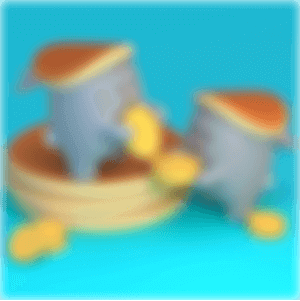
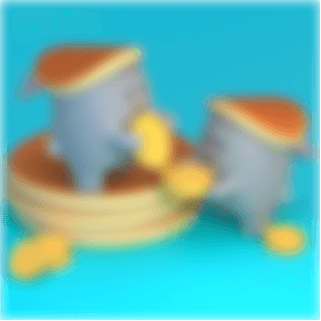
perf: Standardized nft images (#384)

Changed region(s): [[0.99, 0.0, 1.0, 1.0], [0.6, 0.6578, 0.63, 0.6877], [0.0, 0.6279, 0.03, 0.6578]]

diff --git a/src/config/constants/nfts.ts b/src/config/constants/nfts.ts
@@ -4,90 +4,130 @@ const Nfts: Nft[] = [
   {
     name: 'Sleepy',
     description: 'Aww, looks like eating pancakes all day is tough work. Sweet dreams!',
-    originalImage: 'https://gateway.pinata.cloud/ipfs/QmXdHqg3nywpNJWDevJQPtkz93vpfoHcZWQovFz2nmtPf5/sleepy.png',
-    previewImage: 'sleepy-preview.png',
-    blurImage: 'sleepy-blur.png',
+    images: {
+      lg: 'sleepy-lg.png',
+      md: 'sleepy-md.png',
+      sm: 'sleepy-sm.png',
+      ipfs: 'https://gateway.pinata.cloud/ipfs/QmYD9AtzyQPjSa9jfZcZq88gSaRssdhGmKqQifUDjGFfXm/sleepy.png',
+      blur: 'sleepy-blur.png',
+    },
     sortOrder: 999,
     bunnyId: 5,
   },
   {
     name: 'Sunny',
     description: 'Sunny is always cheerful when there are pancakes around. Smile!',
-    originalImage: 'https://gateway.pinata.cloud/ipfs/QmXdHqg3nywpNJWDevJQPtkz93vpfoHcZWQovFz2nmtPf5/sunny.png',
-    previewImage: 'sunny-preview.png',
-    blurImage: 'sunny-blur.png',
+    images: {
+      lg: 'sunny-lg.png',
+      md: 'sunny-md.png',
+      sm: 'sunny-sm.png',
+      ipfs: 'https://gateway.pinata.cloud/ipfs/QmYD9AtzyQPjSa9jfZcZq88gSaRssdhGmKqQifUDjGFfXm/sunny.png',
+      blur: 'sunny-blur.png',
+    },
     sortOrder: 999,
     bunnyId: 6,
   },
   {
     name: 'Churro',
     description: "Don't let that dopey smile deceive you... Churro's a master CAKE chef!",
-    originalImage: 'https://gateway.pinata.cloud/ipfs/QmXdHqg3nywpNJWDevJQPtkz93vpfoHcZWQovFz2nmtPf5/churro.png',
-    previewImage: 'churro-preview.png',
-    blurImage: 'churro-blur.png',
+    images: {
+      lg: 'churro-lg.png',
+      md: 'churro-md.png',
+      sm: 'churro-sm.png',
+      ipfs: 'https://gateway.pinata.cloud/ipfs/QmYD9AtzyQPjSa9jfZcZq88gSaRssdhGmKqQifUDjGFfXm/churro.png',
+      blur: 'churro-blur.png',
+    },
     sortOrder: 999,
     bunnyId: 7,
   },
   {
     name: 'Dollop',
     description: "Nommm... Oh hi, I'm just meditating on the meaning of CAKE.",
-    originalImage: 'https://gateway.pinata.cloud/ipfs/QmXdHqg3nywpNJWDevJQPtkz93vpfoHcZWQovFz2nmtPf5/dollop.png',
-    previewImage: 'dollop-preview.png',
-    blurImage: 'dollop-blur.png',
+    images: {
+      lg: 'dollop-lg.png',
+      md: 'dollop-md.png',
+      sm: 'dollop-sm.png',
+      ipfs: 'https://gateway.pinata.cloud/ipfs/QmYD9AtzyQPjSa9jfZcZq88gSaRssdhGmKqQifUDjGFfXm/dollop.png',
+      blur: 'dollop-blur.png',
+    },
     sortOrder: 999,
     bunnyId: 8,
   },
   {
     name: 'Twinkle',
     description: "Three guesses what's put that twinkle in those eyes! (Hint: it's CAKE)",
-    originalImage: 'https://gateway.pinata.cloud/ipfs/QmXdHqg3nywpNJWDevJQPtkz93vpfoHcZWQovFz2nmtPf5/twinkle.png',
-    previewImage: 'twinkle-preview.png',
-    blurImage: 'twinkle-blur.png',
+    images: {
+      lg: 'twinkle-lg.png',
+      md: 'twinkle-md.png',
+      sm: 'twinkle-sm.png',
+      ipfs: 'https://gateway.pinata.cloud/ipfs/QmYD9AtzyQPjSa9jfZcZq88gSaRssdhGmKqQifUDjGFfXm/twinkle.png',
+      blur: 'twinkle-blur.png',
+    },
     sortOrder: 999,
     bunnyId: 9,
   },
   {
     name: 'Swapsies',
     description: 'These bunnies love nothing more than swapping pancakes. Especially on BSC.',
-    originalImage: 'https://gateway.pinata.cloud/ipfs/QmXdHqg3nywpNJWDevJQPtkz93vpfoHcZWQovFz2nmtPf5/swapsies.png',
-    previewImage: 'swapsies-preview.png',
-    blurImage: 'swapsies-blur.png',
+    images: {
+      lg: 'swapsies-lg.png',
+      md: 'swapsies-md.png',
+      sm: 'swapsies-sm.png',
+      ipfs: 'https://gateway.pinata.cloud/ipfs/QmXdHqg3nywpNJWDevJQPtkz93vpfoHcZWQovFz2nmtPf5/swapsies.png',
+      blur: 'swapsies-blur.png',
+    },
     sortOrder: 999,
     bunnyId: 0,
   },
   {
     name: 'Drizzle',
     description: "It's raining syrup on this bunny, but he doesn't seem to mind. Can you blame him?",
-    originalImage: 'https://gateway.pinata.cloud/ipfs/QmXdHqg3nywpNJWDevJQPtkz93vpfoHcZWQovFz2nmtPf5/drizzle.png',
-    previewImage: 'drizzle-preview.png',
-    blurImage: 'drizzle-blur.png',
+    images: {
+      lg: 'drizzle-lg.png',
+      md: 'drizzle-md.png',
+      sm: 'drizzle-sm.png',
+      ipfs: 'https://gateway.pinata.cloud/ipfs/QmXdHqg3nywpNJWDevJQPtkz93vpfoHcZWQovFz2nmtPf5/drizzle.png',
+      blur: 'drizzle-blur.png',
+    },
     sortOrder: 999,
     bunnyId: 1,
   },
   {
     name: 'Blueberries',
     description: "These bunnies like their pancakes with blueberries. What's your favorite topping?",
-    originalImage: 'https://gateway.pinata.cloud/ipfs/QmXdHqg3nywpNJWDevJQPtkz93vpfoHcZWQovFz2nmtPf5/blueberries.png',
-    previewImage: 'blueberries-preview.png',
-    blurImage: 'blueberries-blur.png',
+    images: {
+      lg: 'blueberries-lg.png',
+      md: 'blueberries-md.png',
+      sm: 'blueberries-sm.png',
+      ipfs: 'https://gateway.pinata.cloud/ipfs/QmXdHqg3nywpNJWDevJQPtkz93vpfoHcZWQovFz2nmtPf5/blueberries.png',
+      blur: 'blueberries-blur.png',
+    },
     sortOrder: 999,
     bunnyId: 2,
   },
   {
     name: 'Circular',
     description: "Love makes the world go 'round... but so do pancakes. And these bunnies know it.",
-    originalImage: 'https://gateway.pinata.cloud/ipfs/QmXdHqg3nywpNJWDevJQPtkz93vpfoHcZWQovFz2nmtPf5/circular.png',
-    previewImage: 'circular-preview.png',
-    blurImage: 'circular-blur.png',
+    images: {
+      lg: 'circular-lg.png',
+      md: 'circular-md.png',
+      sm: 'circular-sm.png',
+      ipfs: 'https://gateway.pinata.cloud/ipfs/QmXdHqg3nywpNJWDevJQPtkz93vpfoHcZWQovFz2nmtPf5/circular.png',
+      blur: 'circular-blur.png',
+    },
     sortOrder: 999,
     bunnyId: 3,
   },
   {
     name: 'Sparkle',
     description: 'It’s sparkling syrup, pancakes, and even lottery tickets! This bunny really loves it.',
-    originalImage: 'https://gateway.pinata.cloud/ipfs/QmXdHqg3nywpNJWDevJQPtkz93vpfoHcZWQovFz2nmtPf5/sparkle.png',
-    previewImage: 'sparkle-preview.png',
-    blurImage: 'sparkle-blur.png',
+    images: {
+      lg: 'sparkle-lg.png',
+      md: 'sparkle-md.png',
+      sm: 'sparkle-sm.png',
+      ipfs: 'https://gateway.pinata.cloud/ipfs/QmXdHqg3nywpNJWDevJQPtkz93vpfoHcZWQovFz2nmtPf5/sparkle.png',
+      blur: 'sparkle-blur.png',
+    },
     sortOrder: 999,
     bunnyId: 4,
   },

diff --git a/src/config/constants/teams.ts b/src/config/constants/teams.ts
@@ -5,9 +5,13 @@ const teams: Team[] = [
     id: 1,
     name: 'Syrup Storm',
     description: "The storm's a-comin! Watch out! These bulls are stampeding in a syrupy surge!",
-    previewImage: 'syrup-storm-preview.png',
-    originalImage: '',
-    avatarImage: 'syrup-storm-avatar.png',
+    images: {
+      lg: 'syrup-storm-lg.png',
+      md: 'syrup-storm-md.png',
+      sm: 'syrup-storm-sm.png',
+      alt: 'syrup-storm-alt.png',
+      ipfs: 'https://gateway.pinata.cloud/ipfs/QmXKzSojwzYjtDCVgR6mVx7w7DbyYpS7zip4ovJB9fQdMG/syrup-storm.png',
+    },
     users: 0,
     points: 0,
   },
@@ -15,19 +19,27 @@ const teams: Team[] = [
     id: 2,
     name: 'Fearsome Flippers',
     description: "The flippening is coming. Don't get in these bunnies' way, or you'll get flipped too!",
-    previewImage: 'fearsome-flippers-preview.png',
-    originalImage: '',
-    avatarImage: 'fearsome-flippers-avatar.png',
+    images: {
+      lg: 'fearsome-flippers-lg.png',
+      md: 'fearsome-flippers-md.png',
+      sm: 'fearsome-flippers-sm.png',
+      alt: 'fearsome-flippers-alt.png',
+      ipfs: 'https://gateway.pinata.cloud/ipfs/QmXKzSojwzYjtDCVgR6mVx7w7DbyYpS7zip4ovJB9fQdMG/fearsome-flippers.png',
+    },
     users: 0,
     points: 0,
   },
   {
     id: 3,
-    name: "Flamin' Cakers",
+    name: 'Chaotic Cakers',
     description: 'Can you stand the heat? Stay out of the kitchen or you might get burned to a crisp!',
-    previewImage: 'flamin-cakers-preview.png',
-    originalImage: '',
-    avatarImage: 'flamin-cakers-avatar.png',
+    images: {
+      lg: 'chaotic-cakers-lg.png',
+      md: 'chaotic-cakers-md.png',
+      sm: 'chaotic-cakers-sm.png',
+      alt: 'chaotic-cakers-alt.png',
+      ipfs: 'https://gateway.pinata.cloud/ipfs/QmXKzSojwzYjtDCVgR6mVx7w7DbyYpS7zip4ovJB9fQdMG/chaotic-cakers.png',
+    },
     users: 0,
     points: 0,
   },

diff --git a/src/views/Profile/components/ProfileAvatar.tsx b/src/views/Profile/components/ProfileAvatar.tsx
@@ -1,14 +1,14 @@
 import React from 'react'
+import { Profile } from 'state/types'
 import styled from 'styled-components'
 
-const Avatar = styled.img`
-  border-radius: 50%;
-`
+interface ProfileAvatarProps {
+  profile: Profile
+}
 
-const StyledProfileAvatar = styled(Avatar)``
-
-const TeamAvatar = styled(Avatar)`
+const TeamAvatar = styled.img`
   border: 1px solid ${({ theme }) => theme.card.background};
+  border-radius: 50%;
   bottom: 0px;
   height: 24px;
   position: absolute;
@@ -22,7 +22,12 @@ const TeamAvatar = styled(Avatar)`
   }
 `
 
-const AvatarWrapper = styled.div`
+const AvatarWrapper = styled.div<{ bg: string }>`
+  background: url('${({ bg }) => bg}');
+  background-repeat: no-repeat;
+  background-size: cover;
+  border-radius: 50%;
+  height: 64px;
   margin-right: 16px;
   position: relative;
   width: 64px;
@@ -32,15 +37,15 @@ const AvatarWrapper = styled.div`
   }
 
   ${({ theme }) => theme.mediaQueries.sm} {
+    height: 128px;
     width: 128px;
   }
 `
 
-const ProfileAvatar = ({ profile }) => {
+const ProfileAvatar: React.FC<ProfileAvatarProps> = ({ profile }) => {
   return (
-    <AvatarWrapper>
-      <StyledProfileAvatar src={`/images/nfts/${profile.nft.previewImage}`} alt={profile.username} />
-      <TeamAvatar src={`/images/teams/${profile.team.avatarImage}`} alt={profile.team.name} />
+    <AvatarWrapper bg={`/images/nfts/${profile.nft.images.md}`}>
+      <TeamAvatar src={`/images/teams/${profile.team.images.alt}`} alt={profile.team.name} />
     </AvatarWrapper>
   )
 }

diff --git a/src/views/Nft/components/NftCard/index.tsx b/src/views/Nft/components/NftCard/index.tsx
@@ -50,7 +50,7 @@ const NftCard: React.FC<NftCardProps> = ({ nft }) => {
   const TranslateString = useI18n()
   const { isInitialized, getTokenIds, reInitialize } = useContext(NftProviderContext)
   const { profile } = useProfile()
-  const { bunnyId, name, previewImage, originalImage, description } = nft
+  const { bunnyId, name, images, description } = nft
   const tokenIds = getTokenIds(bunnyId)
   const walletOwnsNft = tokenIds && tokenIds.length > 0
   const Icon = isOpen ? ChevronUpIcon : ChevronDownIcon
@@ -69,7 +69,7 @@ const NftCard: React.FC<NftCardProps> = ({ nft }) => {
 
   return (
     <Card isActive={walletOwnsNft}>
-      <Image src={`/images/nfts/${previewImage}`} alt={name} originalLink={walletOwnsNft ? originalImage : null} />
+      <Image src={`/images/nfts/${images.lg}`} alt={name} originalLink={walletOwnsNft ? images.ipfs : null} />
       <CardBody>
         <Header>
           <Heading>{name}</Heading>

diff --git a/src/config/constants/types.ts b/src/config/constants/types.ts
@@ -73,24 +73,35 @@ export interface PoolConfig {
   tokenDecimals: number
 }
 
+export type Images = {
+  lg: string
+  md: string
+  sm: string
+  ipfs?: string
+}
+
+export type NftImages = {
+  blur: string
+} & Images
+
 export type Nft = {
   name: string
   description: string
-  originalImage: string
-  previewImage: string
-  blurImage: string
+  images: NftImages
   sortOrder: number
   bunnyId: number
 }
+
+export type TeamImages = {
+  alt: string
+} & Images
 
 export type Team = {
   id: number
   name: string
   description: string
-  originalImage: string
-  previewImage: string
-  avatarImage: string
   isJoinable?: boolean
   users: number
   points: number
+  images: TeamImages
 }

diff --git a/src/views/Profile/ProfileCreation/ProfilePicture.tsx b/src/views/Profile/ProfileCreation/ProfilePicture.tsx
@@ -106,7 +106,7 @@ const ProfilePicture: React.FC = () => {
                     name="profilePicture"
                     key={walletNft.bunnyId}
                     value={firstTokenId}
-                    image={`/images/nfts/${walletNft.previewImage}`}
+                    image={`/images/nfts/${walletNft.images.md}`}
                     isChecked={firstTokenId === tokenId}
                     onChange={(value: string) => actions.setTokenId(parseInt(value, 10))}
                   >

diff --git a/src/views/Profile/ProfileCreation/Mint.tsx b/src/views/Profile/ProfileCreation/Mint.tsx
@@ -82,7 +82,7 @@ const Mint: React.FC = () => {
                 key={nft.bunnyId}
                 name="mintStarter"
                 value={nft.bunnyId}
-                image={`/images/nfts/${nft.previewImage}`}
+                image={`/images/nfts/${nft.images.md}`}
                 isChecked={bunnyId === nft.bunnyId}
                 onChange={handleChange}
                 disabled={isApproving || isConfirming || isConfirmed}

diff --git a/src/views/Teams/components/TeamCard.tsx b/src/views/Teams/components/TeamCard.tsx
@@ -76,7 +76,7 @@ const TeamCard: React.FC<TeamCardProps> = ({ team }) => {
       <StyledCard>
         <StyledCardHeader>
           <AvatarWrap>
-            <Avatar src={`/images/teams/${team.previewImage}`} alt="team avatar" />
+            <Avatar src={`/images/teams/${team.images.md}`} alt="team avatar" />
           </AvatarWrap>
           <TeamName>{team.name}</TeamName>
           <Text as="p">{team.description}</Text>

diff --git a/src/views/Profile/ProfileCreation/TeamSelection.tsx b/src/views/Profile/ProfileCreation/TeamSelection.tsx
@@ -50,7 +50,7 @@ const Team: React.FC = () => {
                   name="teams-selection"
                   value={team.id}
                   isChecked={currentTeamId === team.id}
-                  image={`/images/teams/${team.previewImage}`}
+                  image={`/images/teams/${team.images.md}`}
                   onChange={handleTeamSelection}
                   disabled={!team.isJoinable}
                 >

diff --git a/src/views/Nft/components/NftPreview.tsx b/src/views/Nft/components/NftPreview.tsx
@@ -15,7 +15,7 @@ const NftPreview = () => {
         {orderBy(nfts, 'sortOrder').map((nft) => (
           <div key={nft.name}>
             <Card>
-              <Image src={`/images/nfts/${nft.blurImage}`} alt={nft.name} />
+              <Image src={`/images/nfts/${nft.images.blur}`} alt={nft.name} />
               <CardBody>
                 <Heading>{nft.name}</Heading>
               </CardBody>

diff --git a/src/components/Menu/index.tsx b/src/components/Menu/index.tsx
@@ -28,7 +28,7 @@ const Menu = (props) => {
       links={config}
       profile={{
         username: profile?.username,
-        image: profile?.username ? `/images/nfts/${profile?.nft.previewImage}` : undefined,
+        image: profile?.username ? `/images/nfts/${profile?.nft.images.sm}` : undefined,
         profileLink: '/profile',
         noProfileLink: '/profile',
       }}

diff --git a/src/views/Teams/components/TeamListCard.tsx b/src/views/Teams/components/TeamListCard.tsx
@@ -92,7 +92,7 @@ const StyledTeamCard = styled(Card)`
 
 const TeamCard: React.FC<TeamCardProps> = ({ rank, team }) => {
   const TranslateString = useI18n()
-  const avatar = <Avatar src={`/images/teams/${team.previewImage}`} alt="team avatar" />
+  const avatar = <Avatar src={`/images/teams/${team.images.md}`} alt="team avatar" />
 
   return (
     <StyledTeamCard>
